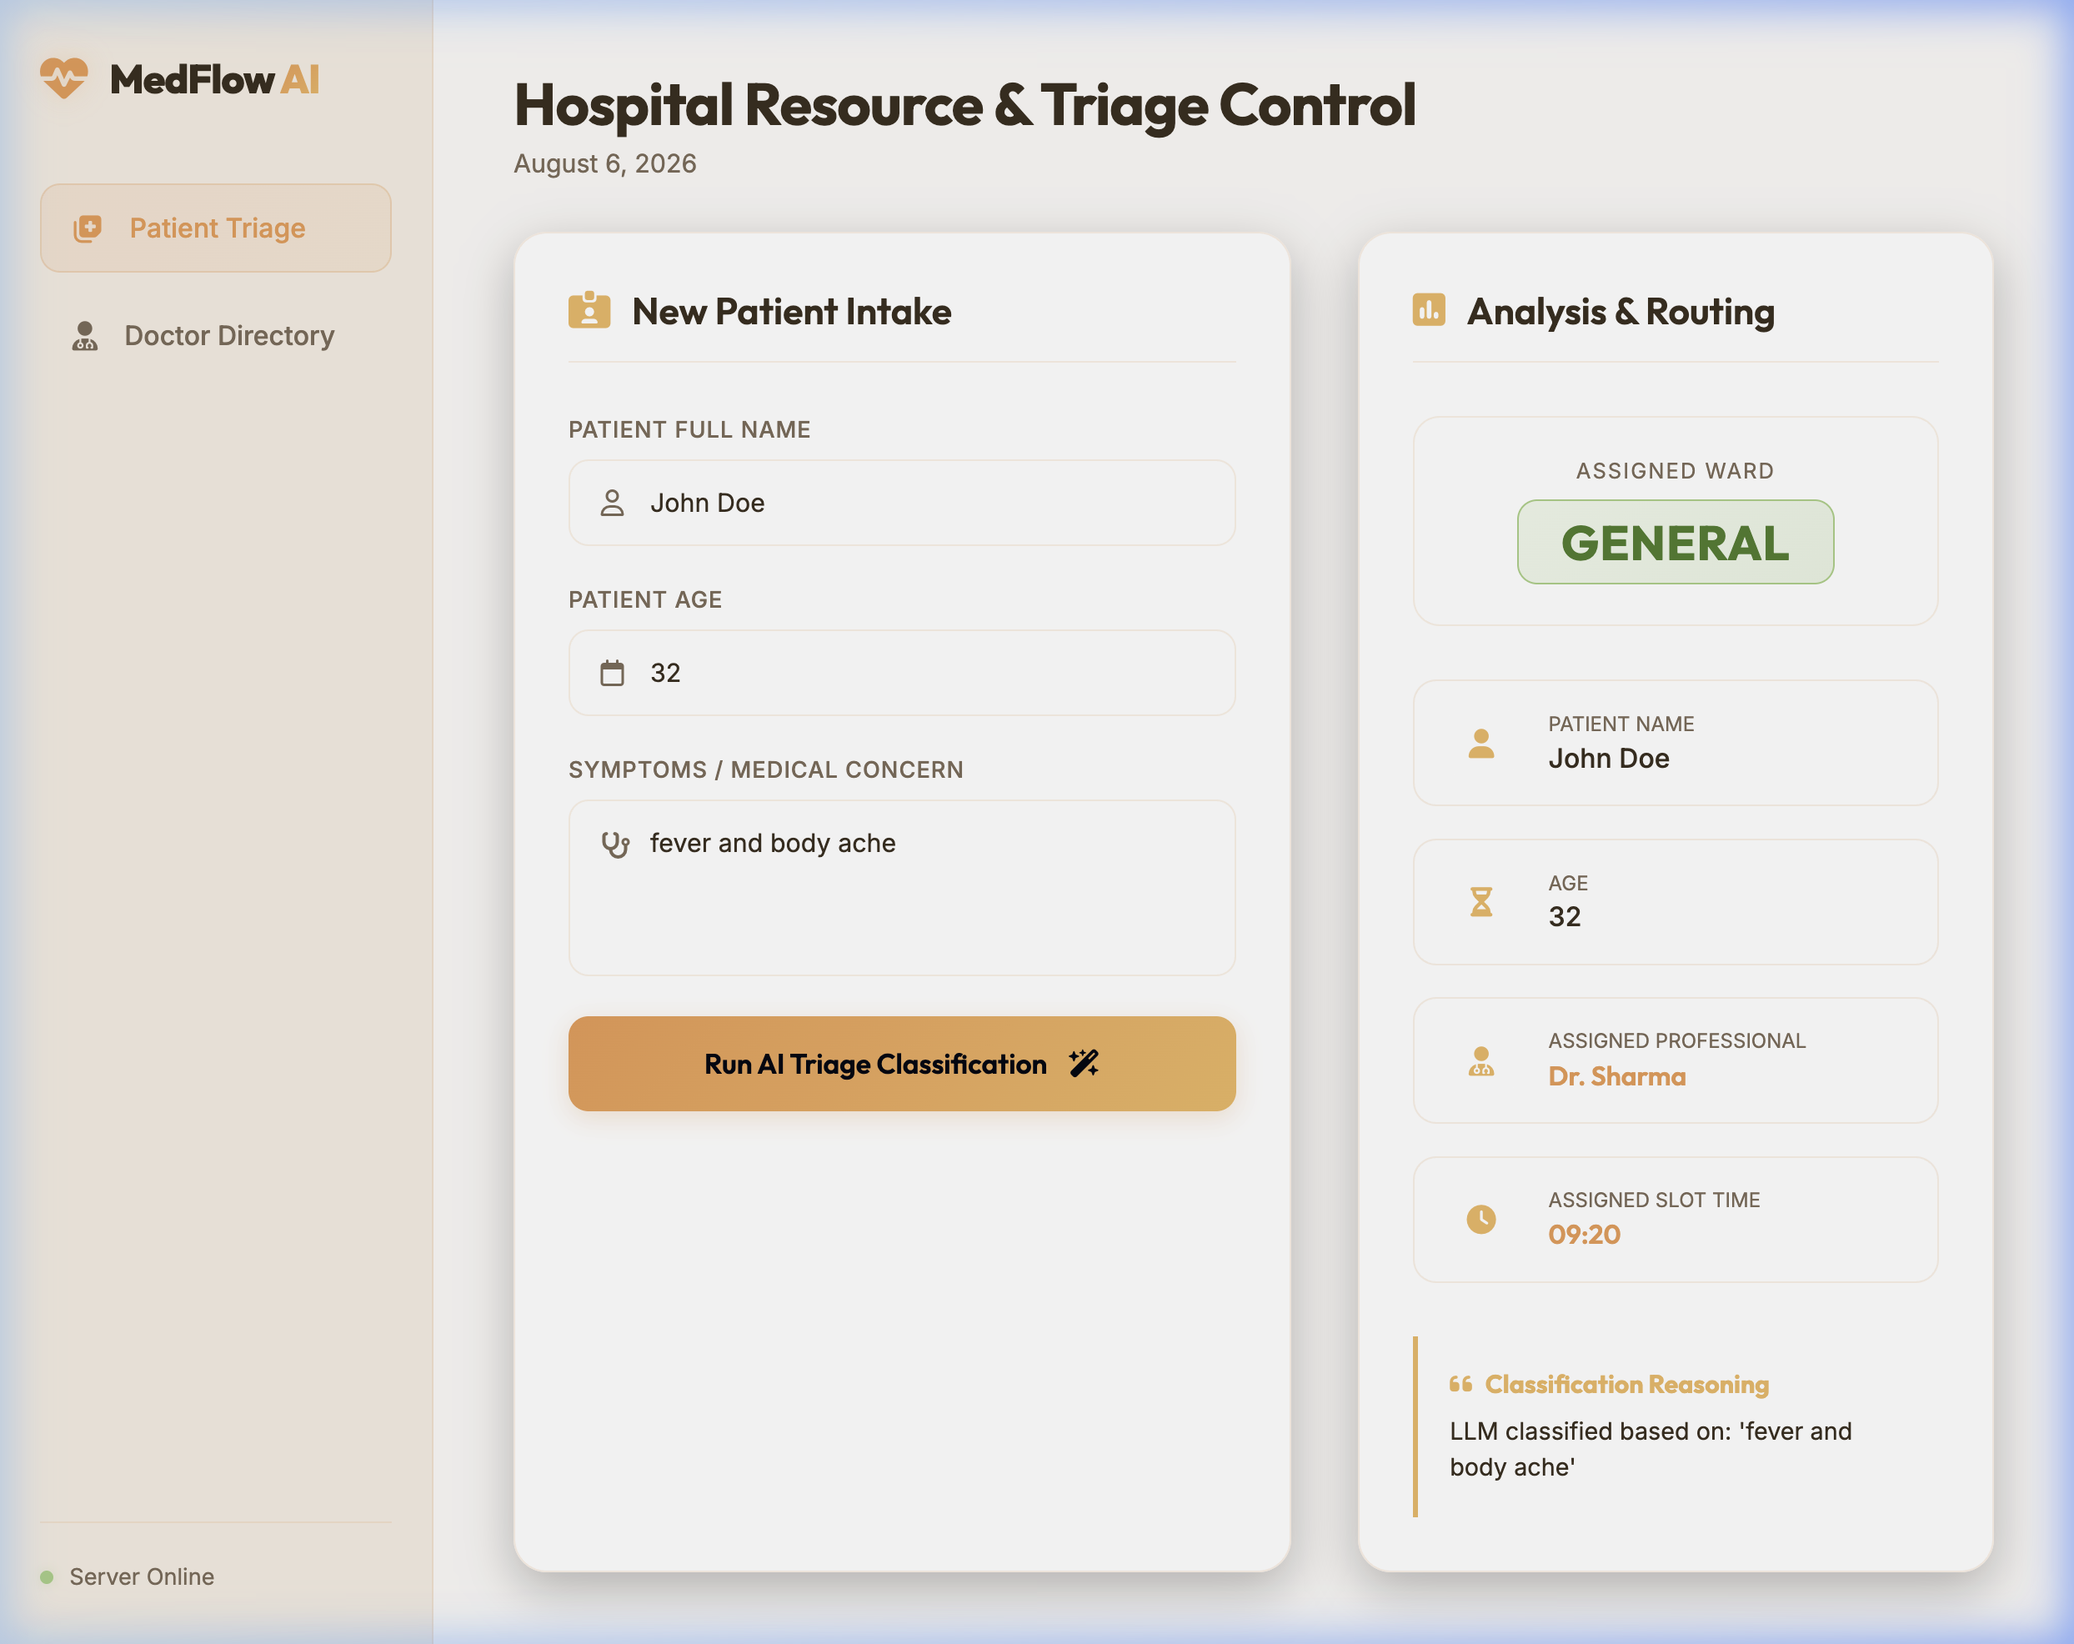
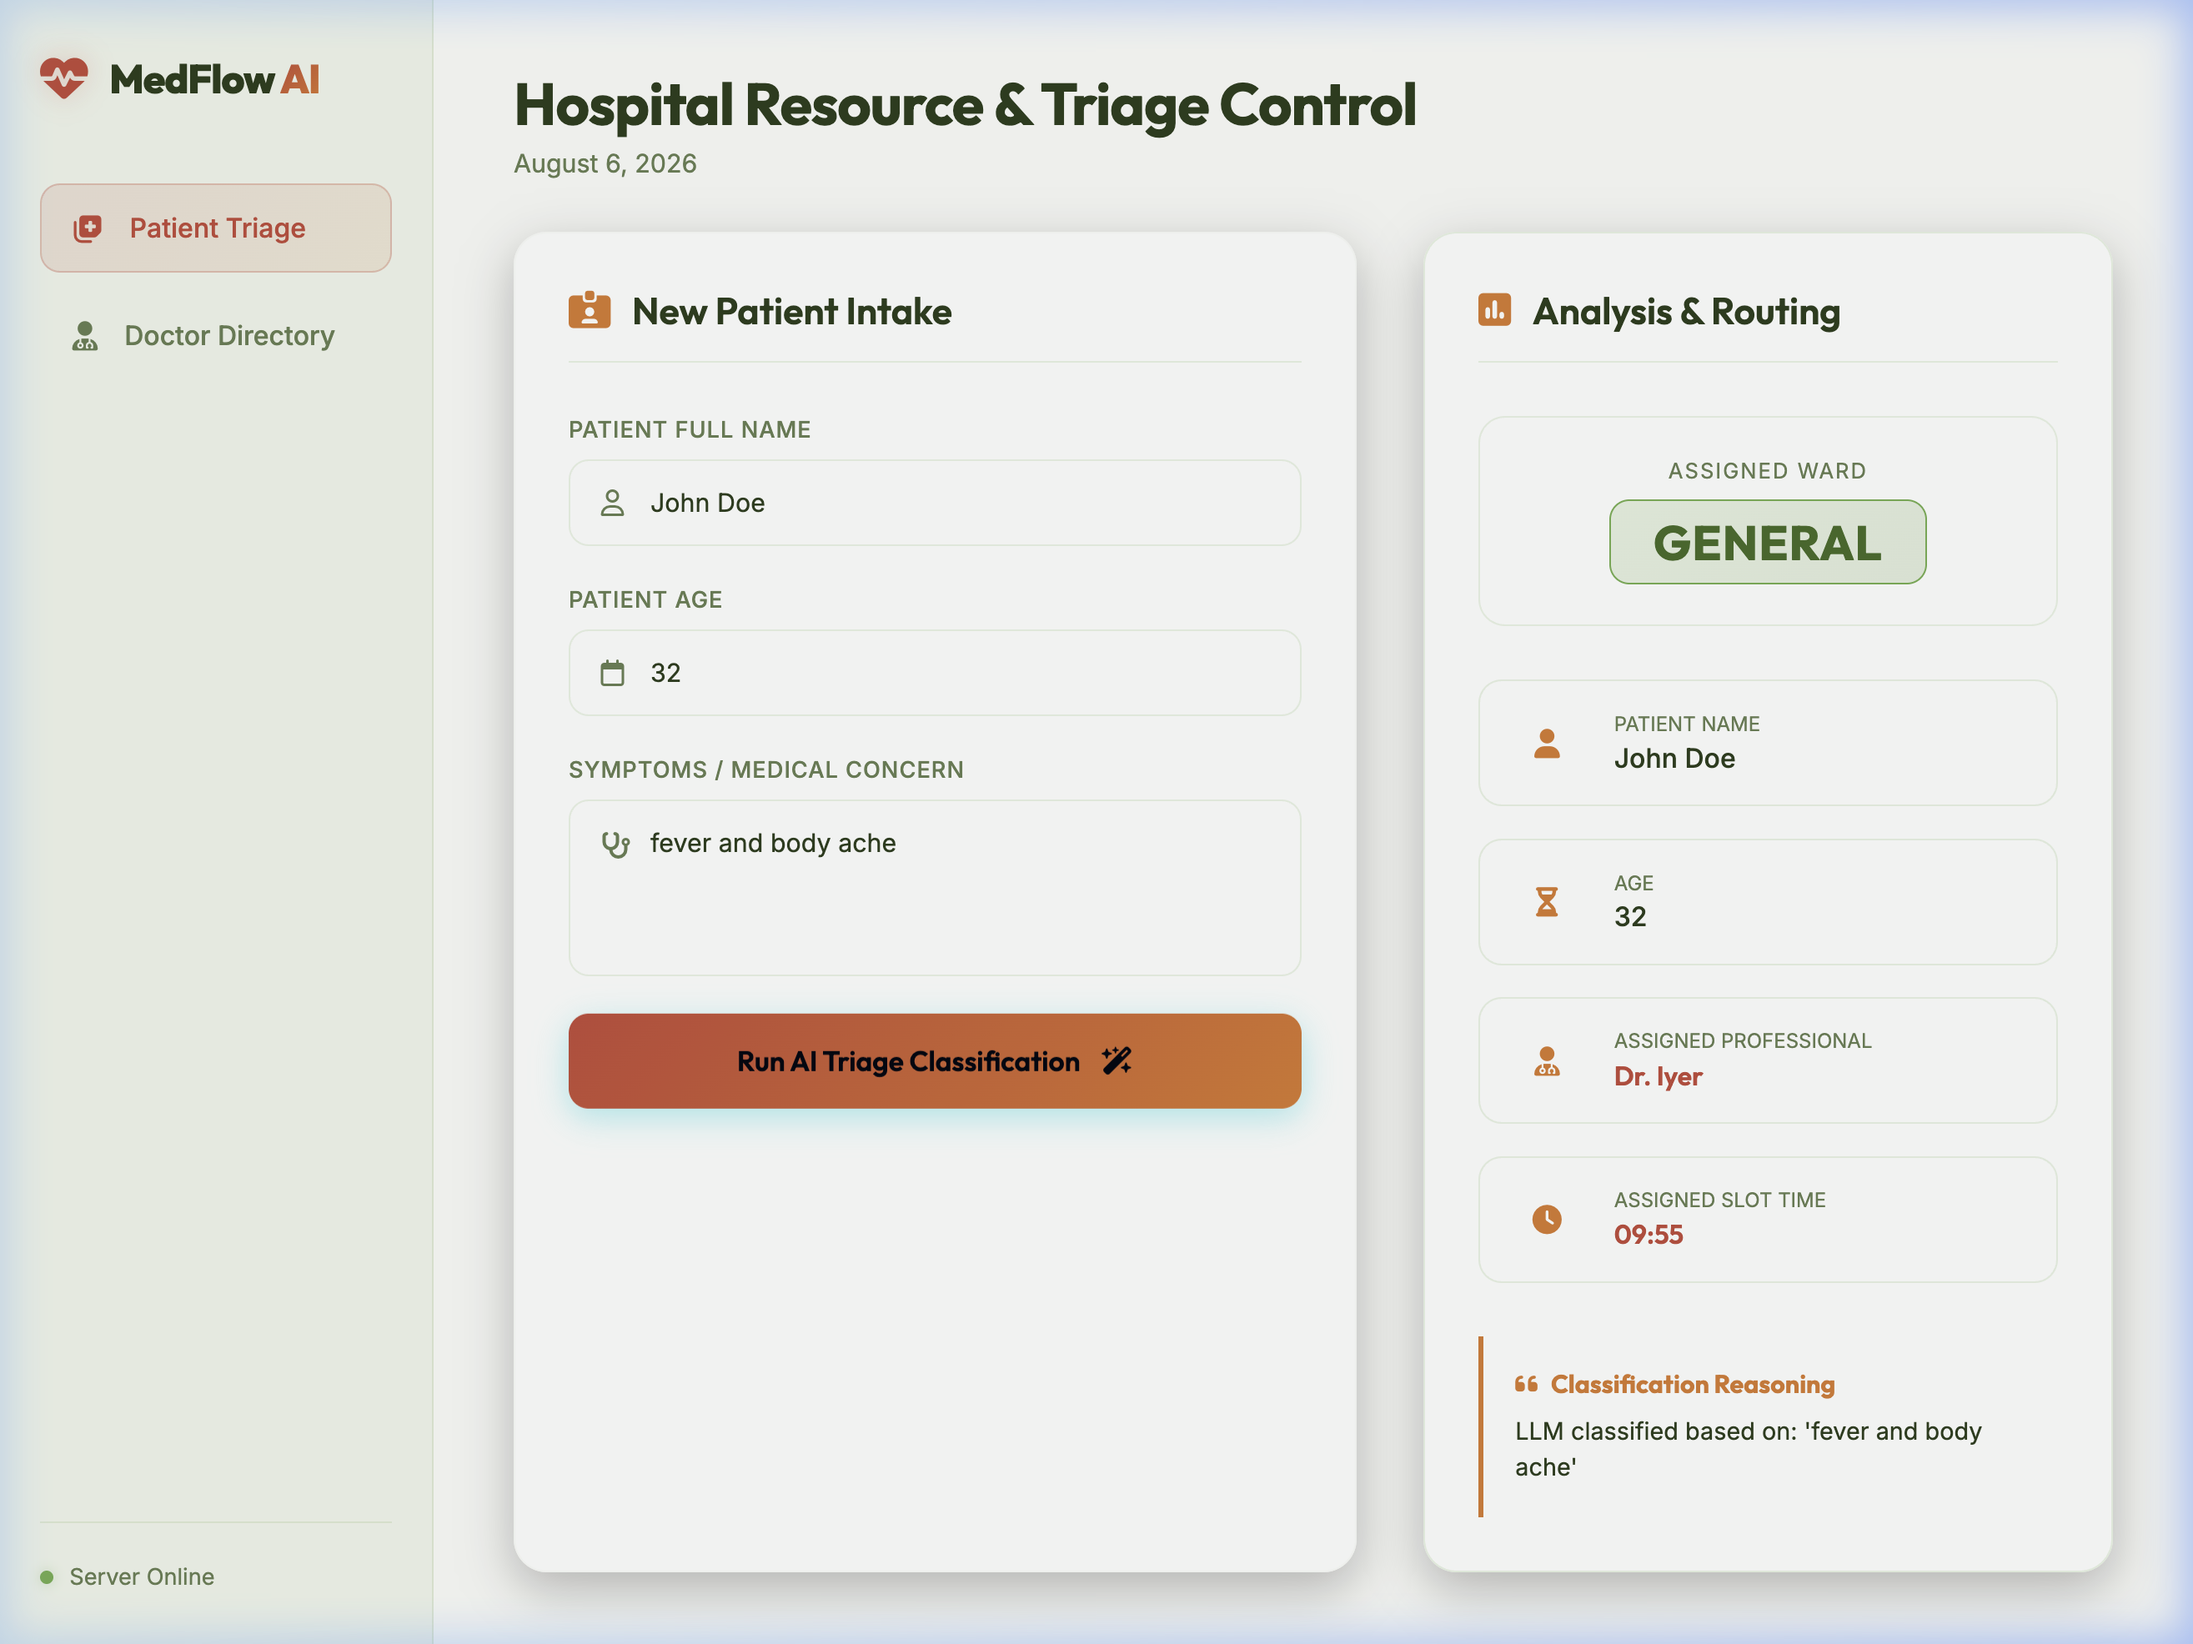
style: update color palette, adjust doctor availability, and add patient records

diff --git a/frontend/style.css b/frontend/style.css
@@ -1,22 +1,22 @@
 /* Reset and Core CSS variables */
 :root {
-    --bg-dark: #fcfaf5;
-    --bg-sidebar: #f7f1e3;
+    --bg-dark: #fafcf8;
+    --bg-sidebar: #f0f5eb;
     --card-bg: rgba(255, 255, 255, 0.85);
-    --card-border: rgba(251, 108, 0, 0.12);
-    --text-main: #3e2417;
-    --text-muted: #826555;
-    --primary: #E73F1E;
-    --primary-glow: rgba(231, 63, 30, 0.25);
-    --secondary: #FB6C00;
+    --card-border: rgba(111, 175, 79, 0.15);
+    --text-main: #2b3e1d;
+    --text-muted: #687f54;
+    --primary: #C44A3A;
+    --primary-glow: rgba(196, 74, 58, 0.25);
+    --secondary: #D97A2B;
     
     /* Wards Color Palette */
-    --emergency: #E73F1E;
-    --emergency-glow: rgba(231, 63, 30, 0.35);
-    --mental-health: #F9B637;
-    --mental-health-glow: rgba(249, 182, 55, 0.35);
-    --general: #FFDD9C;
-    --general-glow: rgba(255, 221, 156, 0.35);
+    --emergency: #C44A3A;
+    --emergency-glow: rgba(196, 74, 58, 0.35);
+    --mental-health: #F2D479;
+    --mental-health-glow: rgba(242, 212, 121, 0.35);
+    --general: #6FAF4F;
+    --general-glow: rgba(111, 175, 79, 0.35);
     
     --transition-speed: 0.3s;
     --font-outfit: 'Outfit', sans-serif;
@@ -109,8 +109,8 @@ body {
 }
 
 .nav-item.active {
-    background: linear-gradient(135deg, rgba(231, 63, 30, 0.12), rgba(251, 108, 0, 0.12));
-    border: 1px solid rgba(231, 63, 30, 0.25);
+    background: linear-gradient(135deg, rgba(196, 74, 58, 0.12), rgba(217, 122, 43, 0.12));
+    border: 1px solid rgba(196, 74, 58, 0.25);
     color: var(--primary);
 }
 
@@ -436,21 +436,21 @@ form {
 }
 
 .ward-emergency {
-    background: linear-gradient(135deg, rgba(231, 63, 30, 0.18), rgba(210, 50, 20, 0.18));
+    background: linear-gradient(135deg, rgba(196, 74, 58, 0.18), rgba(180, 50, 40, 0.18));
     border: 1px solid var(--emergency);
-    color: #a02010;
+    color: #8c2518;
 }
 
 .ward-mental_health {
-    background: linear-gradient(135deg, rgba(249, 182, 55, 0.22), rgba(230, 160, 40, 0.22));
+    background: linear-gradient(135deg, rgba(242, 212, 121, 0.25), rgba(220, 190, 90, 0.25));
     border: 1px solid var(--mental-health);
-    color: #925c00;
+    color: #8c6a18;
 }
 
 .ward-general {
-    background: linear-gradient(135deg, rgba(255, 221, 156, 0.25), rgba(240, 200, 130, 0.25));
+    background: linear-gradient(135deg, rgba(111, 175, 79, 0.18), rgba(90, 150, 60, 0.18));
     border: 1px solid var(--general);
-    color: #8c6010;
+    color: #436d26;
 }
 
 .details-list {
@@ -600,7 +600,7 @@ form {
 .doctor-avatar {
     width: 54px;
     height: 54px;
-    background: linear-gradient(135deg, rgba(231, 63, 30, 0.12), rgba(251, 108, 0, 0.12));
+    background: linear-gradient(135deg, rgba(196, 74, 58, 0.12), rgba(217, 122, 43, 0.12));
     border: 1px solid var(--card-border);
     border-radius: 14px;
     display: flex;
@@ -722,7 +722,7 @@ form {
     overflow-y: auto;
     padding: 2.2rem;
     border-radius: 24px;
-    box-shadow: 0 20px 50px rgba(231, 63, 30, 0.08);
+    box-shadow: 0 20px 50px rgba(196, 74, 58, 0.08);
     background: rgba(255, 255, 255, 0.95) !important;
     border: 1px solid var(--card-border);
     animation: slideUp 0.35s cubic-bezier(0.16, 1, 0.3, 1);
@@ -808,9 +808,9 @@ form {
 
 .patient-schedule-slot {
     font-family: var(--font-outfit);
-    background: rgba(251, 108, 0, 0.12);
+    background: rgba(217, 122, 43, 0.15);
     color: var(--primary);
-    border: 1px solid rgba(251, 108, 0, 0.25);
+    border: 1px solid rgba(217, 122, 43, 0.35);
     padding: 0.25rem 0.7rem;
     border-radius: 8px;
     font-size: 0.85rem;
@@ -822,7 +822,7 @@ form {
     color: var(--text-muted);
     font-style: italic;
     line-height: 1.4;
-    background: rgba(231, 63, 30, 0.05);
+    background: rgba(196, 74, 58, 0.05);
     padding: 0.5rem 0.8rem;
     border-radius: 8px;
     margin: 0.2rem 0;

diff --git a/frontend/app.js b/frontend/app.js
@@ -184,7 +184,7 @@ async function fetchDoctors() {
                     </div>
                     <div style="display: flex; justify-content: space-between; align-items: center;">
                         <span class="status-label">Next Slot</span>
-                        <span class="status-badge slot-badge" style="background: rgba(251, 108, 0, 0.12); color: var(--primary); border: 1px solid rgba(251, 108, 0, 0.25);">
+                        <span class="status-badge slot-badge" style="background: rgba(217, 122, 43, 0.15); color: var(--primary); border: 1px solid rgba(217, 122, 43, 0.35);">
                             <i class="fa-regular fa-clock" style="margin-right: 4px;"></i> ${doc.next_slot} (${doc.slot_minutes}m)
                         </span>
                     </div>
